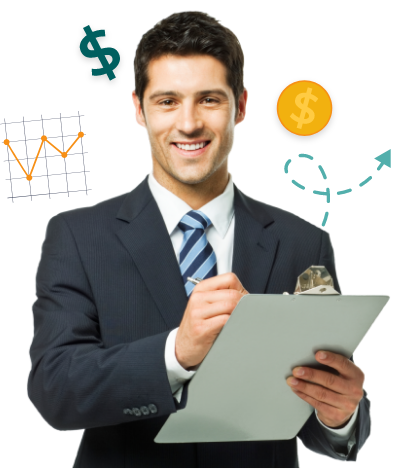
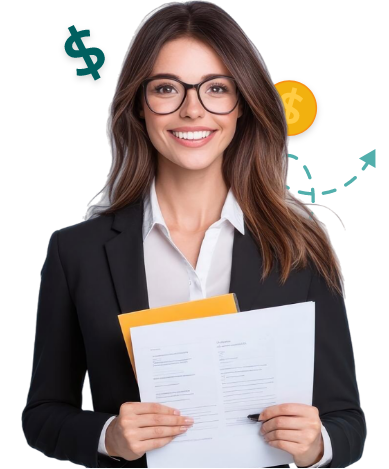
CF modificado

diff --git a/src/styles/_custom.sass b/src/styles/_custom.sass
@@ -2,17 +2,17 @@
   &-1
     animation: float1 3.5s ease-in-out infinite alternate
     position: absolute
-    top: 20%
-    right: 80%
+    top: 25%
+    left: -15%
   &-2
     animation: float2 2.8s ease-in-out infinite alternate
     position: absolute
-    top: 21%
-    right: 10%
+    top: 60%
+    right: 15%
   &-3
     animation: float1 2.8s ease-in-out infinite alternate
     position: absolute
-    top: 71%
+    top: 60%
     right: 70%
 
 @keyframes float1
@@ -35,7 +35,8 @@
     background-image: url("../assets/curso/portada/fondo-banner-principal-mv.png") !important
 
 .banner-principal__row .banner-principal__img
-  width: 400px !important  
+  width: 425px !important
+  padding-bottom: 0px !important  
 
 .titulo-principal.color-acento-contenido .titulo-principal__numero span
   color: black !important

diff --git a/src/config/global.js b/src/config/global.js
@@ -137,7 +137,7 @@ export default {
       {
         icono: 'fas fa-file-pdf',
         titulo: 'Descargar PDF',
-        download: 'downloads/123103_CF08_DU.zip',
+        download: 'downloads/133100_CF08_DU.zip',
       },
       {
         icono: 'fas fa-download',